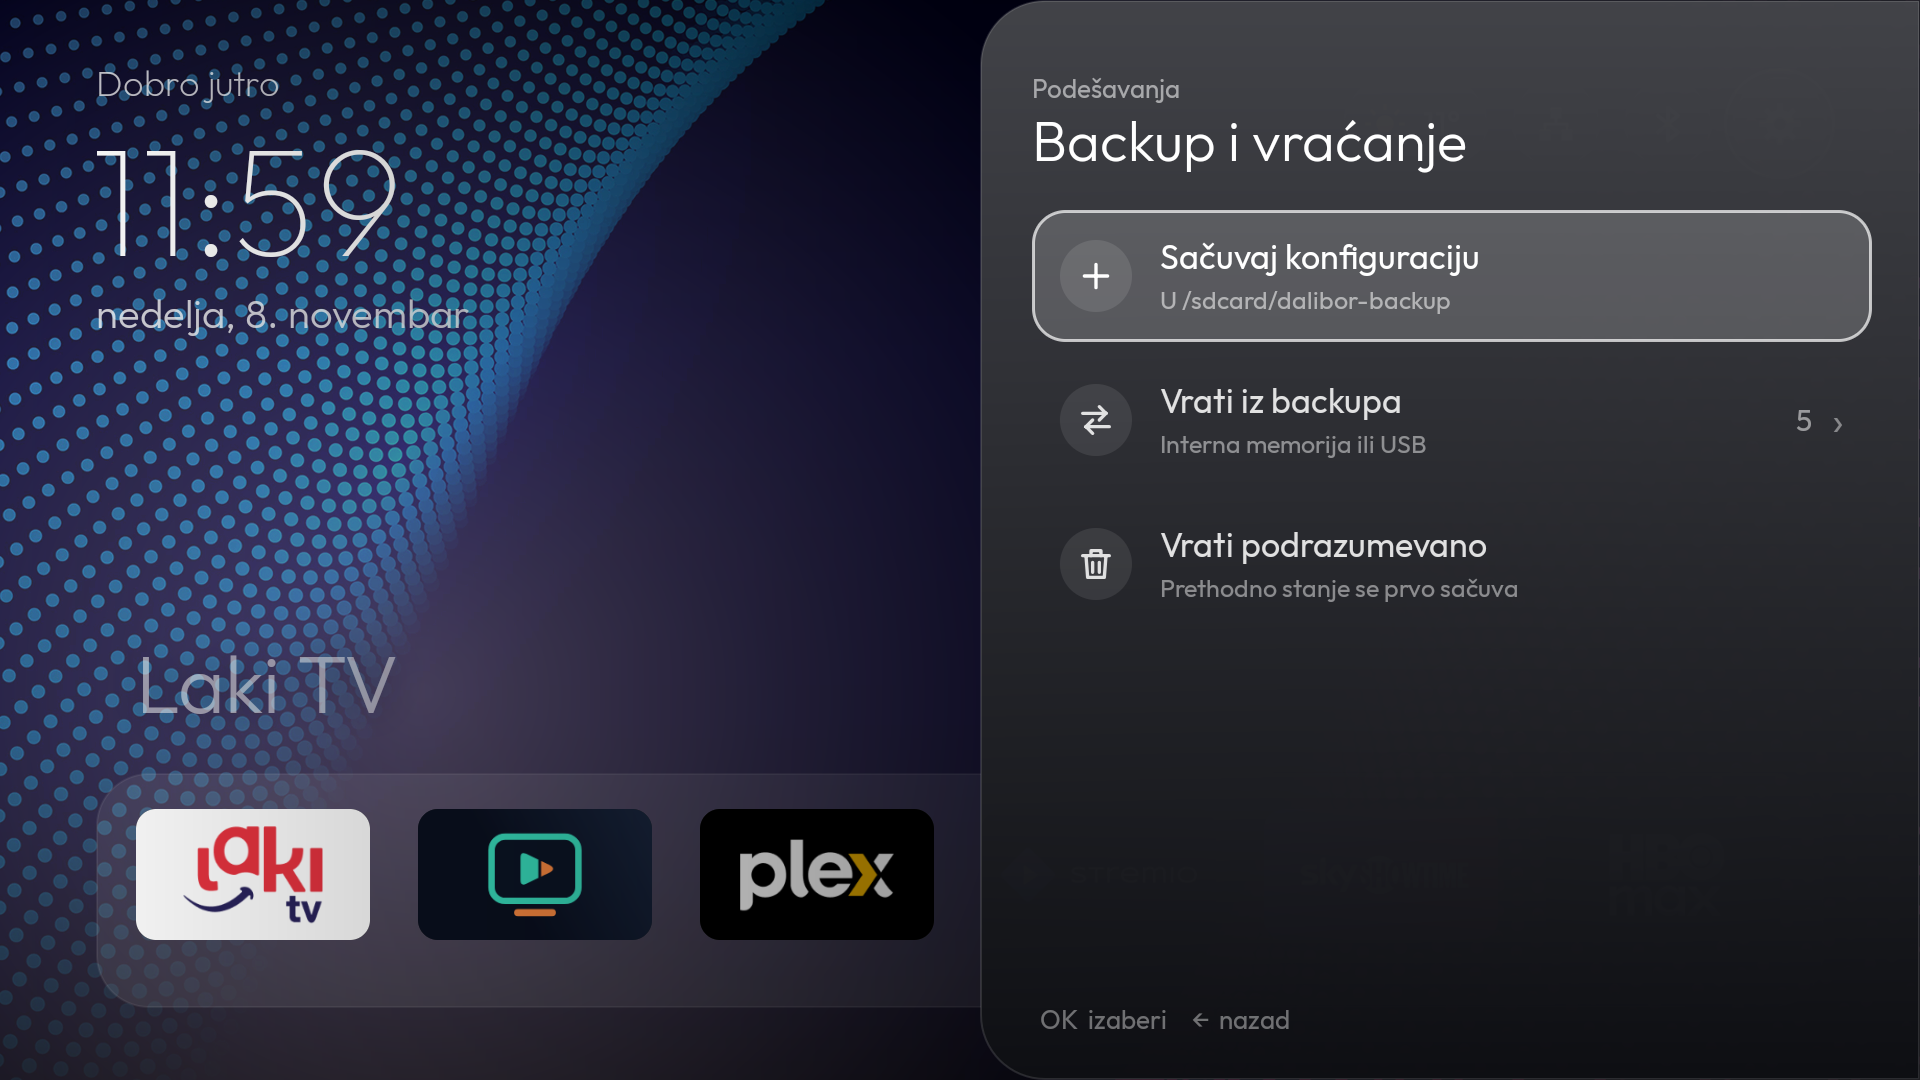
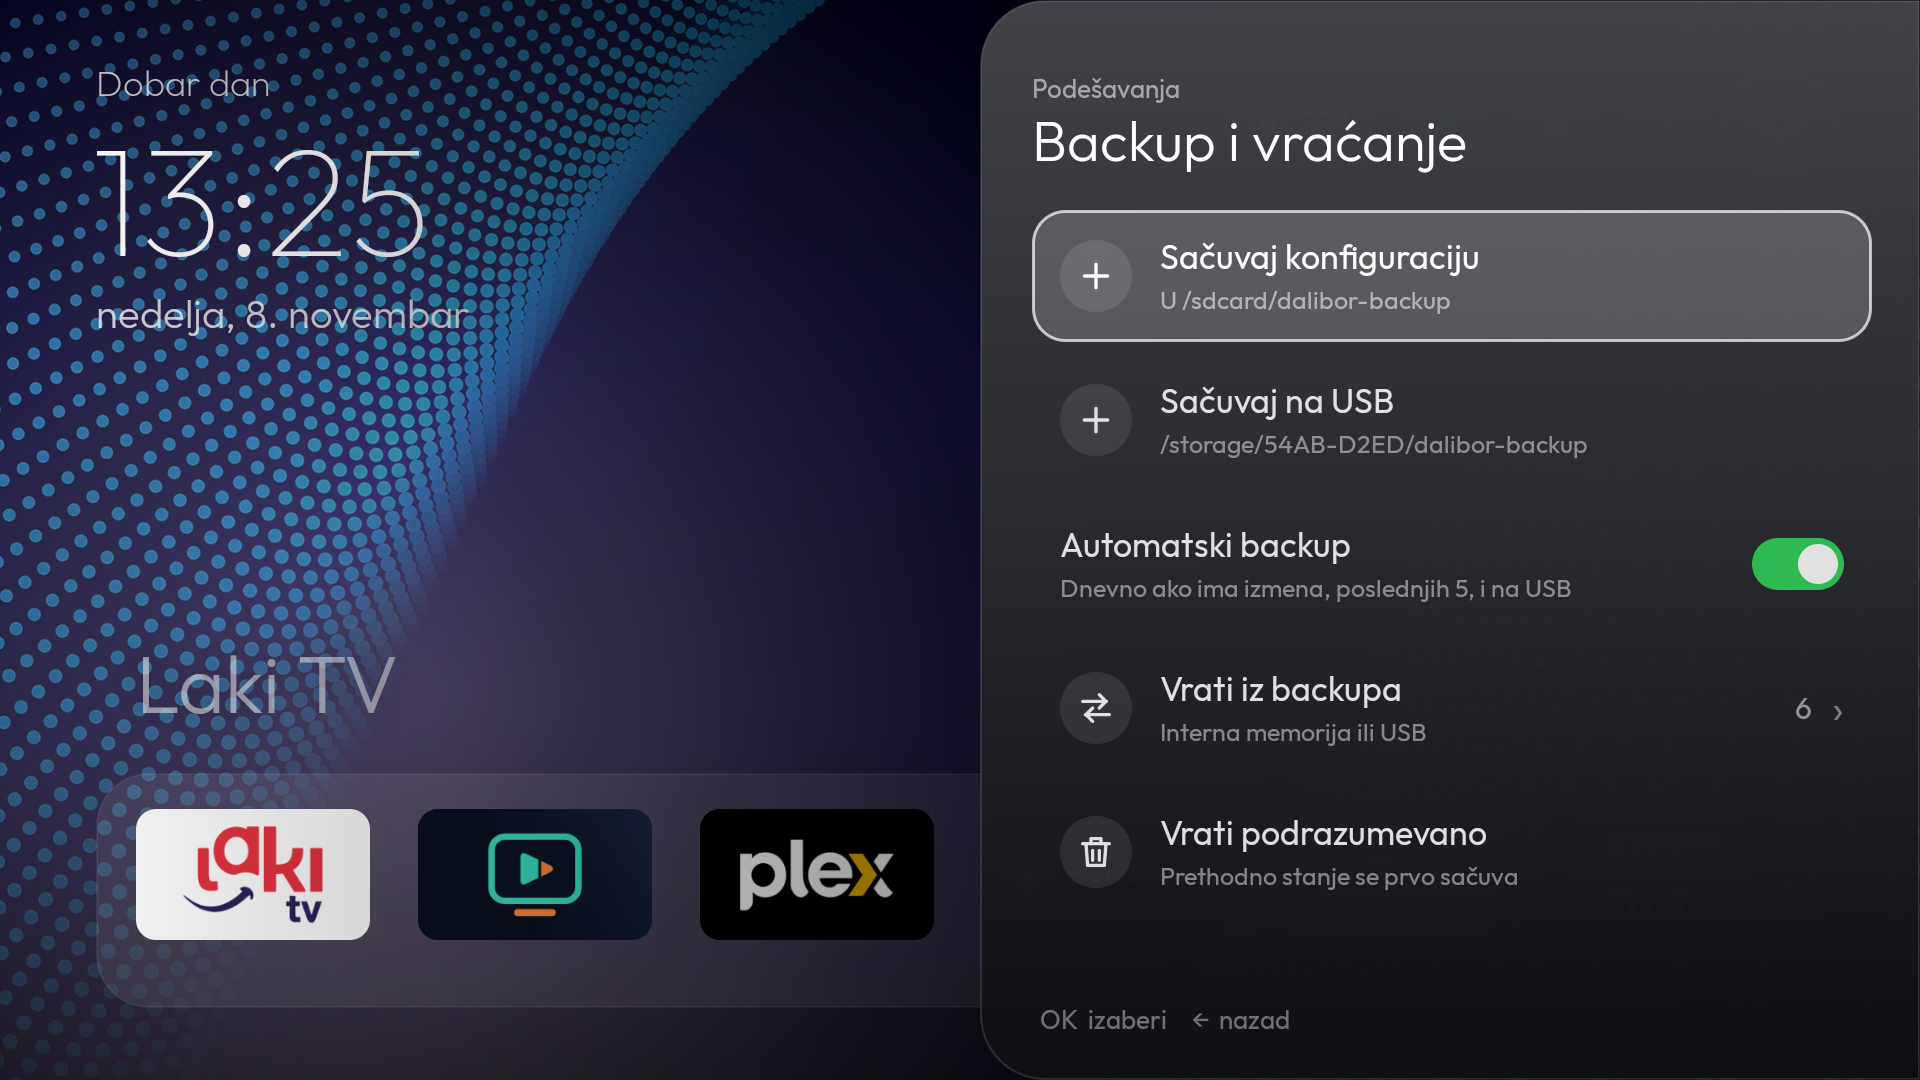
Document day and night themes and diagnostics

diff --git a/README.md b/README.md
@@ -57,8 +57,11 @@ A clean, Apple TV inspired home screen for Android TV boxes. No ads, no account,
 
 ### Look and feel
 - Solid and gradient themes, or your own wallpapers from `/sdcard/Pictures/Pozadine`
+- Automatic day and night themes with selectable hours; a manually chosen theme stays until the next change
 - Built-in screensaver with clock, weather and rotating wallpapers
 - Side panel menus with breadcrumbs, icons and switches
+
+![Day and night theme](docs/daynight.png)
 
 ![Settings](docs/settings.png)
 
@@ -66,9 +69,12 @@ A clean, Apple TV inspired home screen for Android TV boxes. No ads, no account,
 - Sleep timer, sleep now and restart
 - Shortcuts to network and Android settings
 - Bluetooth menu with quick pairing
-- Update check against GitHub Releases; an update is installed only after you confirm it
+- Update check against GitHub Releases, with a list of what is new; an update is installed only after you confirm it
+- Diagnostics screen: firmware, uptime, memory, storage, temperature, network, Bluetooth, USB and permissions
 - Keeps paired Bluetooth LE remotes connected, for boxes whose Bluetooth chip does not reconnect them on its own
 - Configurable color keys and special remote keys (requires the companion service below)
+
+![Diagnostics](docs/diagnostics.png)
 
 ## Installation
 

diff --git a/README.sr.md b/README.sr.md
@@ -56,8 +56,11 @@
 
 ### Izgled
 - Jednobojne i prelazne teme ili tvoje slike iz `/sdcard/Pictures/Pozadine`
+- Automatska dnevna i noćna tema, sa izborom sati; ručno izabrana tema važi do sledeće promene
 - Ugrađen čuvar ekrana sa satom, prognozom i smenom pozadina
 - Meniji u bočnom panelu, sa putanjom, ikonama i prekidačima
+
+![Dan/noć tema](docs/daynight.png)
 
 ![Podešavanja](docs/settings.png)
 
@@ -65,9 +68,12 @@
 - Tajmer za spavanje, spavanje odmah i restart
 - Prečice do mreže i Android podešavanja
 - Bluetooth meni sa brzim uparivanjem
-- Provera novih verzija na GitHub Releases; instalira se samo kad potvrdiš
+- Provera novih verzija na GitHub Releases, sa listom promena; instalira se samo kad potvrdiš
+- Dijagnostika: firmware, vreme rada, memorija, temperatura, mreža, Bluetooth, USB i dozvole
 - Održava vezu sa uparenim Bluetooth LE daljinskim, za boxove čiji se BT čip sam ne povezuje ponovo
 - Tasteri u boji i posebni tasteri daljinskog po izboru (traži prateći servis, vidi ispod)
+
+![Dijagnostika](docs/diagnostics.png)
 
 ## Instalacija
 
